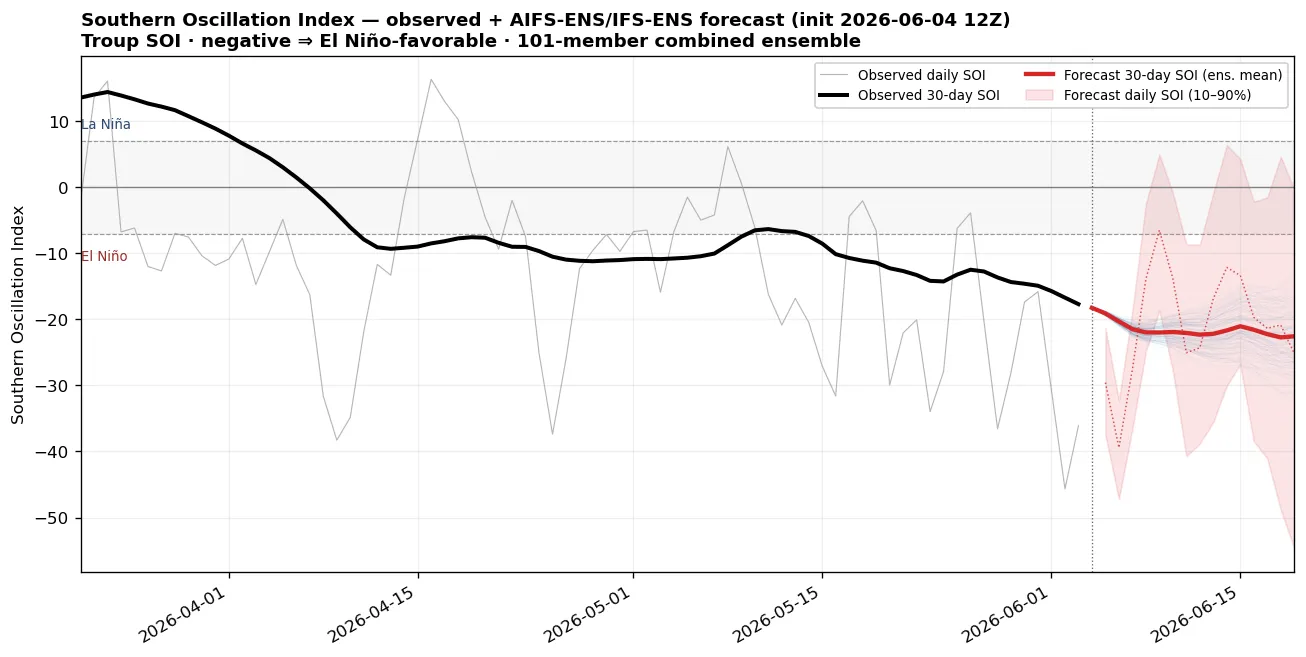
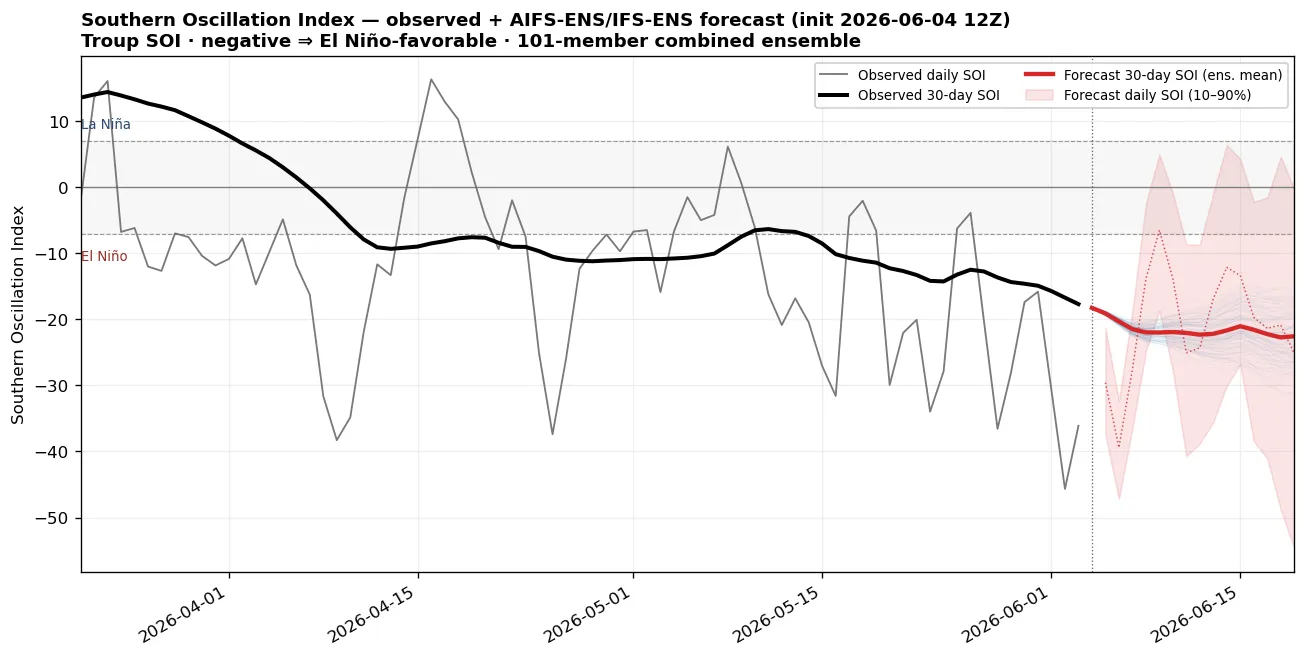
SOI plot: make the observed daily line more visible
Darken + thicken the faint grey "Observed daily SOI" trace (0.6/0.7px → 0.42/1.1px,
higher alpha) so it reads clearly against the bands.

diff --git a/scripts/mjo/src/soi_forecast.py b/scripts/mjo/src/soi_forecast.py
@@ -156,7 +156,7 @@ def plot(obs: pd.DataFrame, normals: dict, diff: xr.DataArray,
 
     # observed: faint daily + bold 30-day
     od = obs_soi.loc[p0:init_d]
-    ax.plot(od.index, od.values, color="0.6", lw=0.7, alpha=0.7, label="Observed daily SOI")
+    ax.plot(od.index, od.values, color="0.42", lw=1.1, alpha=0.9, label="Observed daily SOI")
     ro = run_obs.loc[p0:init_d]
     ax.plot(ro.index, ro.values, color="k", lw=2.4, label="Observed 30-day SOI")
 
